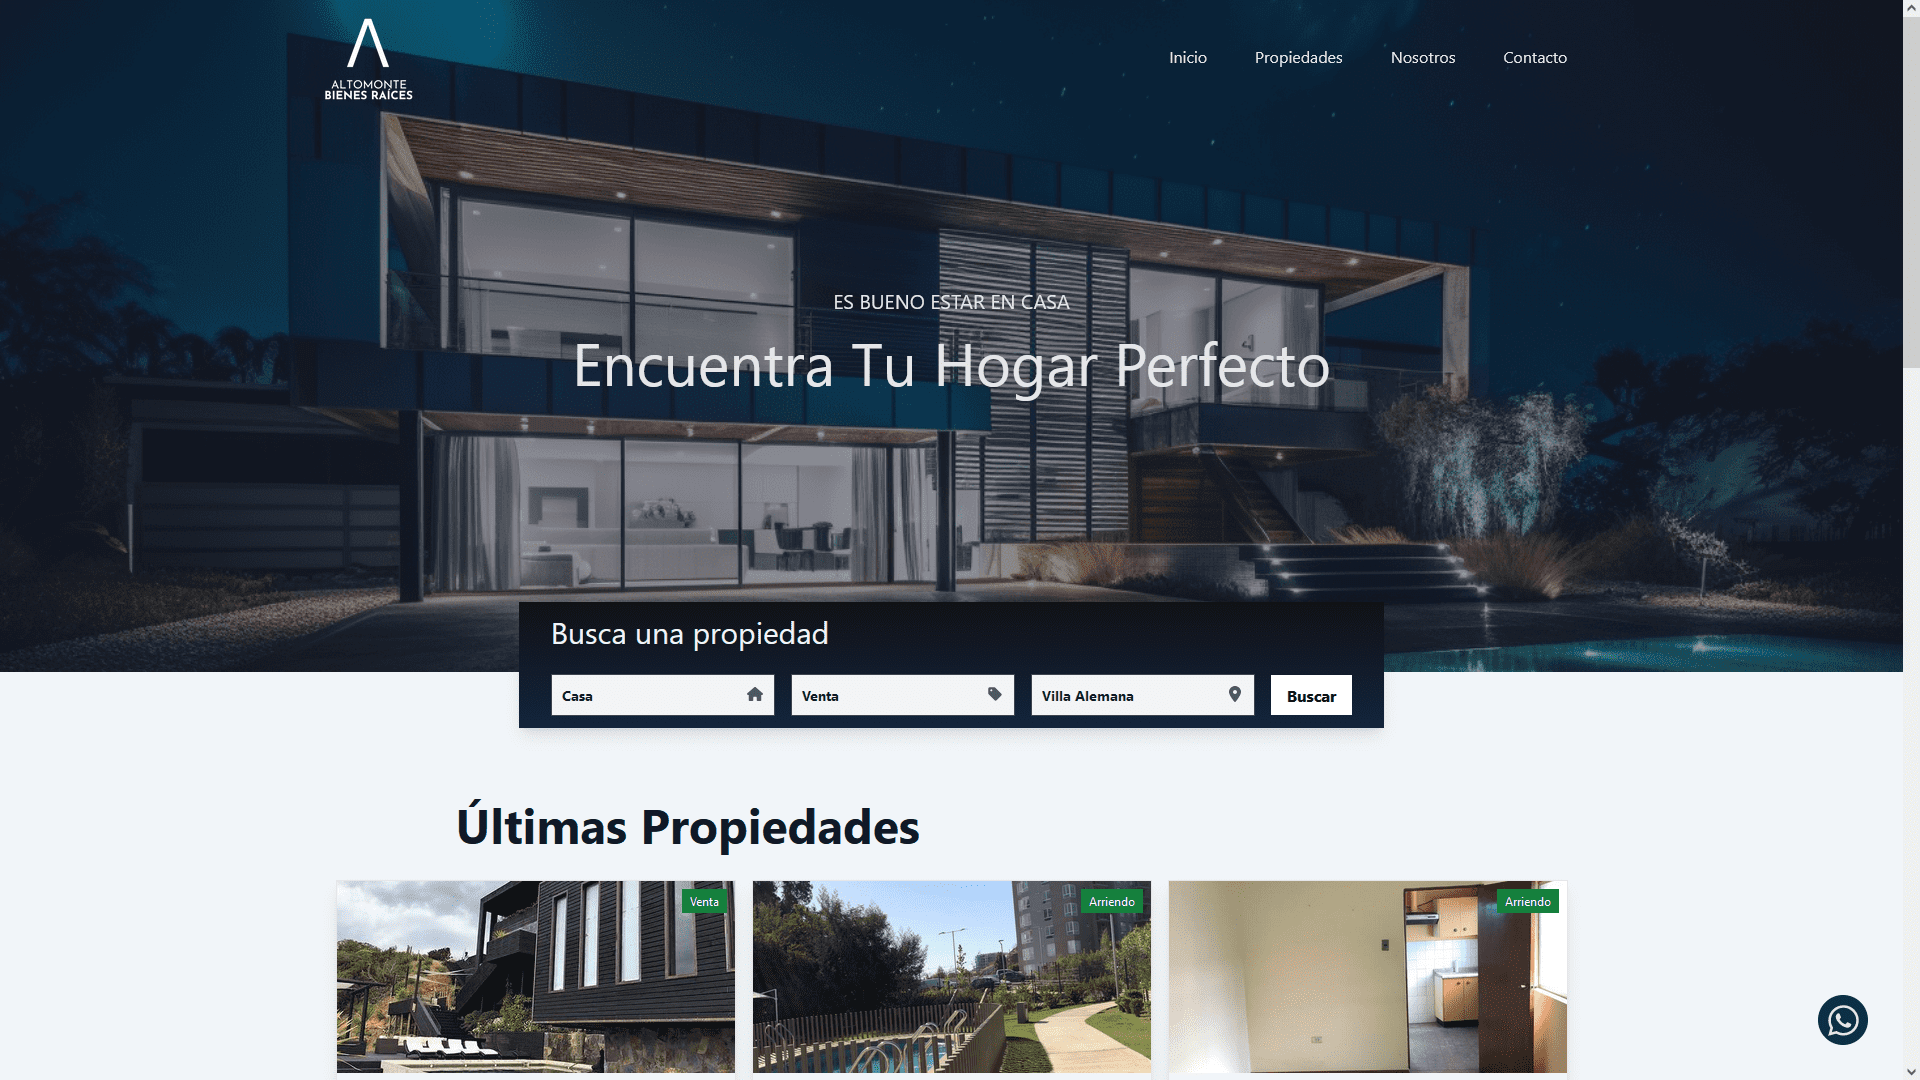
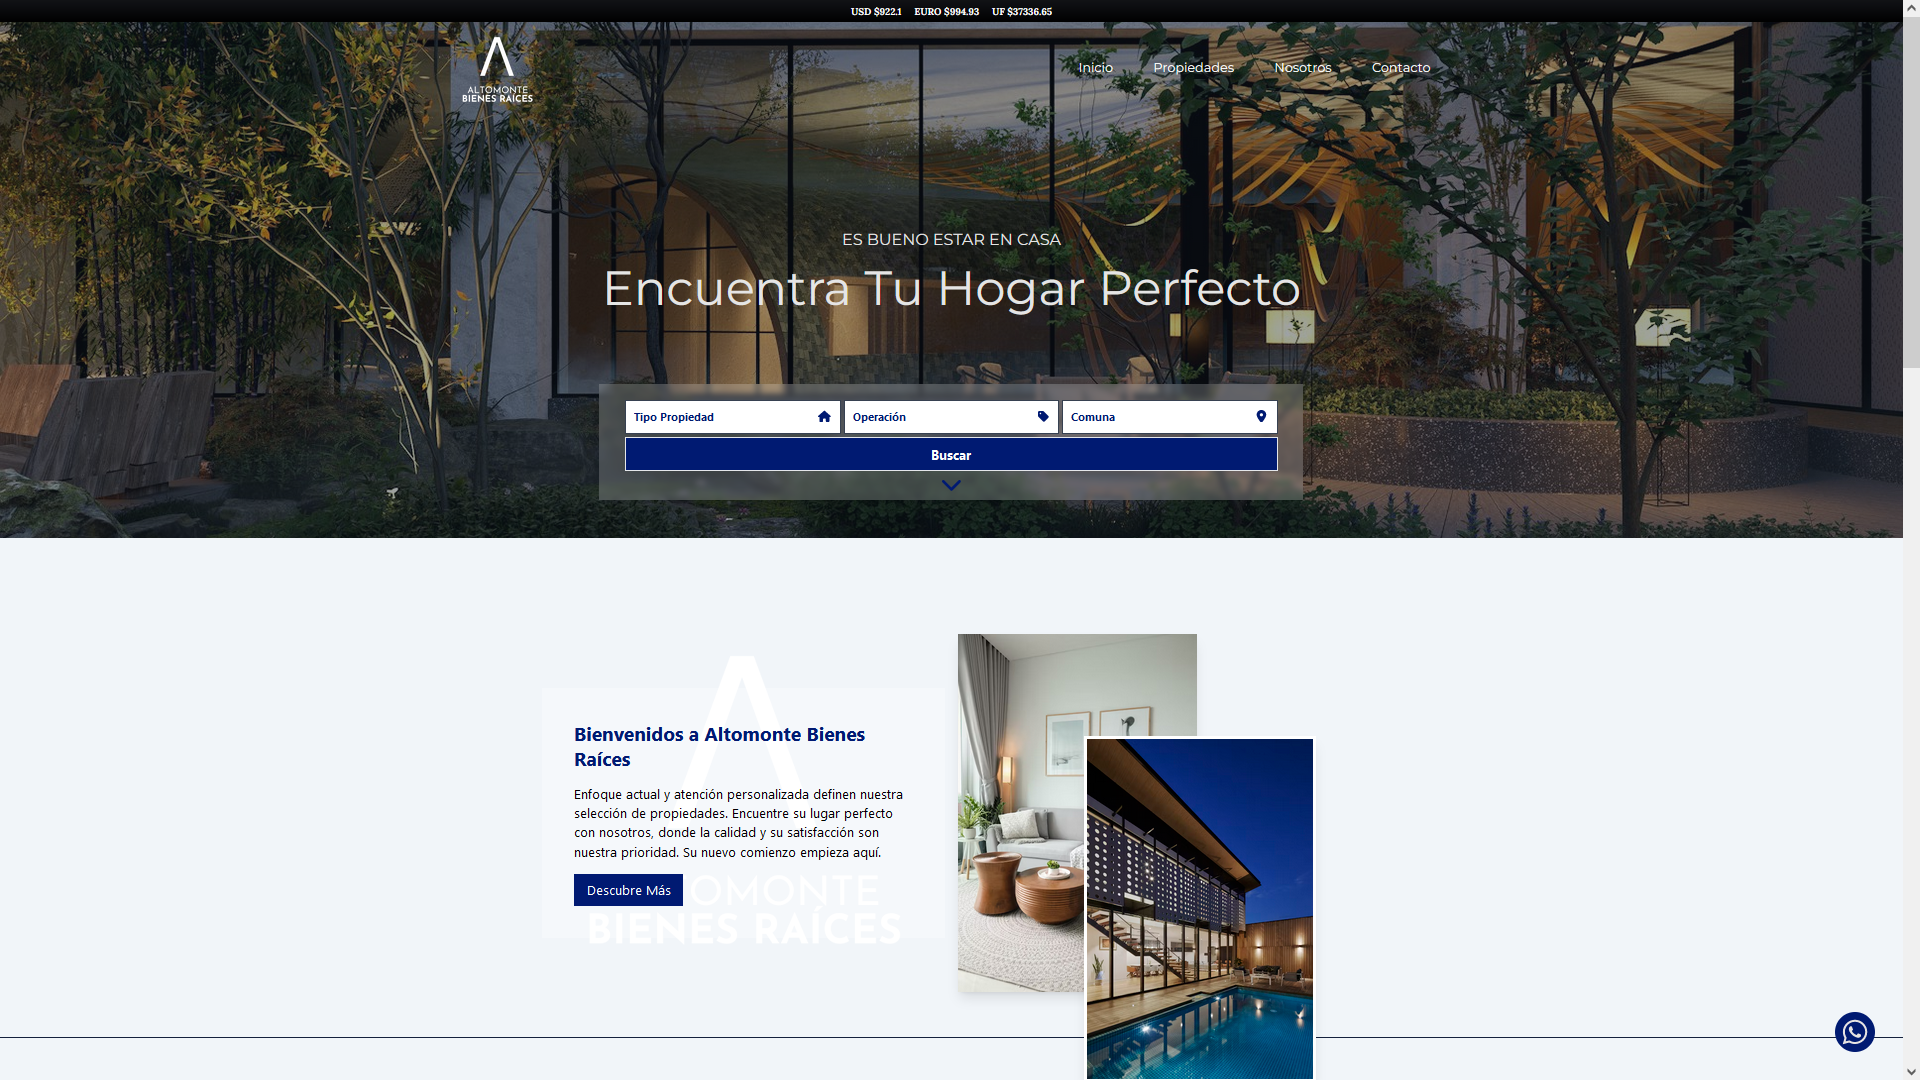
nuevas imagenes para altomonte

diff --git a/src/components/Icons.jsx b/src/components/Icons.jsx
@@ -165,130 +165,5 @@ export const NodeJSIcon = () => (
   </svg>
   )
 
-  export const HamburgerIcon = () => (
-    <svg
-    xmlns="http://www.w3.org/2000/svg"
-    fill="none"
-    viewBox="0 0 24 24"
-    className= {`w-7 `}
-  >
-    <g stroke="#628190" strokeLinecap="round" strokeWidth={1.5}>
-      <path d="M20 7H4" />
-      <path d="M20 12H4" opacity={0.5} />
-      <path d="M20 17H4" />
-    </g>
-  </svg>
-  )
 
- export const ContactSvg = (props) => (
-    <svg
-      xmlns="http://www.w3.org/2000/svg"
-      width={890}
-      height={729.787}
-      data-name="Layer 1"
-      {...props}
-    >
-      <path
-        fill="#2f2e41"
-        d="m219.677 665.91 1.81 38.156v.002a24.345 24.345 0 0 1-23.163 25.47l-.79.037-2.964-62.474Z"
-      />
-      <path
-        fill="#e6e6e6"
-        d="M762.171 601.427c-18.173 35.465-41.224 69.764-70.389 100.808-.648.7-1.302 1.384-1.962 2.08l-69.1-32.714c.422-.702.885-1.49 1.384-2.352 29.683-50.787 208.865-360.592 203.203-430.759.66 5.787 21.898 197.17-63.136 362.937Z"
-      />
-      <path
-        fill="#e6e6e6"
-        d="M705.113 708.546a92.323 92.323 0 0 1-2.957 1.608l-51.838-24.54c.725-.515 1.57-1.123 2.54-1.806 15.88-11.403 63.105-45.614 109.313-82.38 49.658-39.512 98.152-81.965 105.354-102.23-1.463 4.648-46.914 145.898-162.412 209.348Z"
-      />
-      <circle cx={86.23} cy={648.051} r={80} fill="#a4d8d8" />
-      <path
-        fill="#fff"
-        d="M118.275 614.48h-64.09a10.694 10.694 0 0 0-10.682 10.681v45.78a10.694 10.694 0 0 0 10.681 10.681h64.091a10.694 10.694 0 0 0 10.682-10.682v-45.779a10.694 10.694 0 0 0-10.682-10.682Zm0 6.103a4.559 4.559 0 0 1 1.134.148l-33.172 26.461-32.978-26.515a4.58 4.58 0 0 1 .925-.094Zm0 54.935h-64.09a4.583 4.583 0 0 1-4.579-4.578v-45.368l34.711 27.91a3.052 3.052 0 0 0 3.816.006l34.72-27.696v45.148a4.583 4.583 0 0 1-4.578 4.578Z"
-      />
-      <path
-        fill="#ffb8b8"
-        d="m394.968 532.551 17.9.148a12.454 12.454 0 0 0 12.399-14.43 12.454 12.454 0 0 0-17.807-9.192l-16.88 8.33-57.737 12.875-24.735-25.289-14.208 23.401 33.378 25.788Z"
-      />
-      <path
-        fill="#2f2e41"
-        d="m391.613 717.49-21.09 4.056c-14.404-45.409-30.012-88.411-30.011-121.67-20.386 22.688-45.667 35.669-75.436 39.745l3.245-50.29 24.334-12.979 37.243-17.189a28.28 28.28 0 0 1 10.365-2.563 28.28 28.28 0 0 1 29.412 23.773Z"
-      />
-      <path
-        fill="#2f2e41"
-        d="m290.627 633.537-8.405 6.389a26.03 26.03 0 0 1-25.663 3.345c-24.075-18.046-41.179-12.722-56.681 14.516-18.594-20.985-23.182-51.294-6.587-82.651l92.064 2.028 18.656-5.678Z"
-      />
-      <path
-        fill="#2f2e41"
-        d="M259.967 727.517a23.507 23.507 0 0 1-27.82-11.721c-8.274-7.288-15.255-17.721-21.31-30.409a235.353 235.353 0 0 1-11.167-28.683c-4.19-12.94 2.816-27.077 15.855-30.948q.582-.173 1.177-.326c17.407-4.469 35.282 5.57 41.232 22.528l17.3 49.308a23.507 23.507 0 0 1-14.398 29.964q-.432.152-.87.287Z"
-      />
-      <path
-        d="M362.891 764.878s20.279 22.712 24.334 35.69"
-        opacity={0.2}
-        style={{
-          isolation: "isolate",
-        }}
-        transform="translate(-155 -85.106)"
-      />
-      <path
-        fill="#ffb8b8"
-        d="m129.244 572.587-6.787 16.564a12.454 12.454 0 0 0 8.791 16.872 12.454 12.454 0 0 0 15.15-13.118l-1.463-18.767 9.496-58.387 32.668-13.57-16.447-21.885-36.343 21.409Z"
-      />
-      <path
-        fill="#a4d8d8"
-        d="M291.438 575.136c-23.306 39.147-69.767 54.306-109.56 23.651 7-23 29.6-86.566 15-89-31 13-31.045-17.523-36.844-32.799l70.57-25.956 38.123 10.545 7.814 2.773a26.42 26.42 0 0 1 17.583 24.537c-16.015 23.135-27.87 47.815-2.686 86.249Z"
-      />
-      <path
-        fill="#a4d8d8"
-        d="m300.36 543.502-27.983-23.118 9.328-53.94L319.828 507Z"
-      />
-      <path
-        fill="#3f3d56"
-        d="M764.705 172.945h-4V63.4a63.4 63.4 0 0 0-63.4-63.4H465.218a63.4 63.4 0 0 0-63.4 63.4v600.974a63.4 63.4 0 0 0 63.4 63.4h232.085a63.4 63.4 0 0 0 63.4-63.4V250.921h4Z"
-        data-name="b82a9922-ead1-40af-af3b-f133b244cde7"
-      />
-      <path
-        fill="#fff"
-        d="M699.862 16.493h-30.295a22.495 22.495 0 0 1-20.828 30.994H515.78a22.495 22.495 0 0 1-20.826-30.991h-28.3a47.348 47.348 0 0 0-47.348 47.348v600.089a47.348 47.348 0 0 0 47.348 47.348h233.2a47.348 47.348 0 0 0 47.348-47.348V63.84a47.348 47.348 0 0 0-47.348-47.348h.009Z"
-        data-name="b2a7827b-2d2c-407d-93be-35e4c67116bc"
-      />
-      <circle
-        cx={583.658}
-        cy={651.746}
-        r={26}
-        fill="#e6e6e6"
-        data-name="e6b07811-3d0f-4972-ba4c-46b0c6566e33"
-      />
-      <path
-        fill="#e6e6e6"
-        d="M478.182 411.298c-2.457 0-4.457 2.283-4.457 5.088s2 5.088 4.457 5.088h210.143c2.457 0 4.457-2.283 4.457-5.088s-2-5.088-4.457-5.088ZM478.182 531.298c-2.457 0-4.457 2.283-4.457 5.088s2 5.088 4.457 5.088h210.143c2.457 0 4.457-2.283 4.457-5.088s-2-5.088-4.457-5.088ZM478.182 441.826c-2.457 0-4.457 2.282-4.457 5.087s2 5.088 4.457 5.088h90.425c2.458 0 4.458-2.282 4.458-5.088s-2-5.087-4.458-5.087ZM478.182 470.924c-2.457 0-4.457 2.283-4.457 5.088s2 5.088 4.457 5.088h210.143c2.457 0 4.457-2.283 4.457-5.088s-2-5.088-4.457-5.088ZM478.182 501.451c-2.457 0-4.457 2.283-4.457 5.088s2 5.088 4.457 5.088h90.425c2.458 0 4.458-2.283 4.458-5.088s-2-5.088-4.458-5.088Z"
-      />
-      <path
-        fill="#a4d8d8"
-        d="M517.853 179.627h130.814a5.457 5.457 0 0 1 5.45 5.45v136.238a5.457 5.457 0 0 1-5.45 5.45H517.853a5.457 5.457 0 0 1-5.45-5.45V185.078a5.457 5.457 0 0 1 5.45-5.45Z"
-      />
-      <path
-        fill="#fff"
-        d="M620.793 298.67a3.7 3.7 0 1 0 .004-7.4h-75.07a3.7 3.7 0 1 0-.004 7.4h75.07ZM620.793 276.868a3.7 3.7 0 0 0 0-7.4h-75.066a3.7 3.7 0 1 0-.004 7.4h75.07ZM583.26 207.722a23.293 23.293 0 1 1-23.293 23.292 23.319 23.319 0 0 1 23.293-23.292Z"
-      />
-      <path
-        fill="#2f2e41"
-        d="M286.064 443.97h-69.15a5.371 5.371 0 0 1-5.365-5.365V408.8a39.94 39.94 0 1 1 79.88 0v29.806a5.371 5.371 0 0 1-5.365 5.365Z"
-      />
-      <circle
-        cx={414.124}
-        cy={497.999}
-        r={29.283}
-        fill="#ffb6b6"
-        transform="rotate(-61.337 264.866 586.134)"
-      />
-      <path
-        fill="#2f2e41"
-        d="M300.878 411.78h-42.283l-.434-6.07-2.168 6.07h-6.51l-.86-12.032-4.297 12.032h-12.598v-.596a31.63 31.63 0 0 1 31.594-31.595h5.962a31.63 31.63 0 0 1 31.594 31.595Z"
-      />
-      <path
-        fill="#2f2e41"
-        d="M258.248 449.534a5.481 5.481 0 0 1-.949-.084l-30.962-5.463v-51.17h34.083l-.844.983c-11.74 13.693-2.895 35.894 3.422 47.91a5.286 5.286 0 0 1-.42 5.612 5.344 5.344 0 0 1-4.33 2.212ZM361.333 702.175l38.2-.001h.001a24.345 24.345 0 0 1 24.344 24.343v.791l-62.544.003Z"
-      />
-      <path fill="#cacaca" d="M889 729.787H1a1 1 0 0 1 0-2h888a1 1 0 0 1 0 2Z" />
-    </svg>
-  )
+ 

diff --git a/src/data/projects.js b/src/data/projects.js
@@ -8,9 +8,9 @@ export const projects = [
         href: 'https://panel-cliente.onrender.com/',
         href2: 'https://github.com/Sie7he/admin_panel',
         icon: ['NodeJSIcon', 'ReactJsIcon', 'PostgreSQLIcon'],
-        buttontxt: 'Ver Sitio',
-        buttontxt2 : 'Ver Repositorio',
-        description: 'CRUD para panel de administración usando tecnologías como v0.dev para el diseño y render.com para hosting.',
+        buttontxt: 'Ver',
+        github : true,
+        description: "Panel de administración que generalmente uso en mis proyectos. Esta aplicación está usando un servidor gratis, por lo que tardará en iniciar.",
     },
     {
         id: 2,
@@ -24,26 +24,31 @@ export const projects = [
         img: '/galeria.png',
         title: 'Galería de Fotos',
         href: 'https://unagaleriadefotos.netlify.app/',
+        href2: 'https://github.com/Sie7he/gallery',
         icon: ['ReactJsIcon'],
-        buttontxt: 'Visitar el sitio',
-        description: 'Galería de imágenes integrada con la API de Unsplash, mostrando fotografías de alta calidad.',
+        buttontxt: 'Ver',
+        github : true,
+        description: "Una galería de imágenes dinámica integrada con la API de Unsplash, que presenta un diseño atractivo y moderno con suaves transiciones entre páginas.",
     },
     {
         id: 4,
         img: '/tienda.png',
         title: 'Random Store',
         href: 'https://ramdomstore.netlify.app/',
+        href2 : 'https://github.com/Sie7he/tienda',
         icon: ['ReactJsIcon'],
-        buttontxt: 'Visitar el sitio',
-        description: 'Plataforma de comercio electrónico construida con React y estilizada con Tailwind, ofreciendo una experiencia de compra dinámica. ',
+        buttontxt: 'Ver',
+        github : true,
+        description: 'Simulación de un carrito de compra, aplicando filtros de categoría y precio (Proyecto de Midudev)',
     },
     {
         id: 5,
         img: '/metas.png',
         title: 'Metas app',
-        href: 'https://github.com/Sie7he/academiaX',
+        href2: 'https://github.com/Sie7he/academiaX',
         icon: ['NodeJSIcon', 'ReactJsIcon', 'PostgreSQLIcon'],
-        buttontxt: 'Ver Repositorio',
+        buttontxt: '',
+        github: true,
         description: 'Aplicación interactiva CRUD para el registro y seguimiento de metas diarias, semanales y mensuales (Proyecto de AcademiaX).',
     },
 

diff --git a/src/components/shareds/Cards.jsx b/src/components/shareds/Cards.jsx
@@ -1,6 +1,6 @@
 import React from 'react'
 import estilos from './card.module.css';
-import { NodeJSIcon, JavaScriptIcon, ReactJsIcon, MySQLIcon, PostgreSQLIcon, JQueryIcon } from '../Icons';
+import { NodeJSIcon, JavaScriptIcon, ReactJsIcon, MySQLIcon, PostgreSQLIcon, JQueryIcon, GithubIcon } from '../Icons';
 
 
 export const Cards = ( props ) => {
@@ -19,7 +19,9 @@ export const Cards = ( props ) => {
   return (
 
     <div className={estilos.card}>
-      <img src={props.img} />
+     <div className={estilos.cardContainer}>
+     <img src={props.img} />
+     </div>
       <div>
         <h2>{props.title}</h2>
         <div className='flex justify-center md:justify-start'>
@@ -34,8 +36,12 @@ export const Cards = ( props ) => {
           {props.description}
         </p>
         <div className='flex gap-4 justify-center lg:justify-normal'>
-        <a target='_blank' href={props.href} rel='noreferrer'>{props.buttontxt}</a>
-        {props.href2 && <a target='_blank' href={props.href2} rel='noreferrer'>{props.buttontxt2}</a>}
+          {props.href &&
+           <a target='_blank' href={props.href} rel='noreferrer'>{props.buttontxt}</a> 
+          }
+       
+        {props.github && 
+        <a target='_blank' href={props.href2} rel='noreferrer' className='flex items-center w-14'><GithubIcon/> </a>}
         </div>
       </div>
     </div>

diff --git a/src/components/Views/Work.jsx b/src/components/Views/Work.jsx
@@ -1,4 +1,4 @@
-import { JQueryIcon, MySQLIcon, NodeJSIcon, ReactJsIcon } from "../Icons";
+import {  MySQLIcon, NodeJSIcon, ReactJsIcon } from "../Icons";
 
 export const Work = () => {
   return (
@@ -26,23 +26,23 @@ export const Work = () => {
             </a>
             <div className="grid grid-cols-2 gap-4">
               <a
-                href="https://altomontebienesraices.com/propiedades"
+                href="https://altomontebienesraices.com/propiedad/100"
                 target="_blank"
                 rel="noreferrer"
               >
                 <img
-                  src="/Altomonte_propiedades.png"
+                  src="/altomonte_note.png"
                   alt="Imagen secundaria 1"
                   className="w-full h-auto object-cover rounded-lg"
                 />
               </a>
               <a
-                href="https://altomontebienesraices.com/propiedad/101"
+                href="https://altomontebienesraices.com/"
                 target="_blank"
                 rel="noreferrer"
               >
                 <img
-                  src="/Altomonte_propiedad.png"
+                  src="/altomonte_phones.png"
                   alt="Imagen secundaria 2"
                   className="w-full h-auto object-cover rounded-lg"
                 />

diff --git a/src/components/Views/Home.jsx b/src/components/Views/Home.jsx
@@ -4,7 +4,6 @@ import { Contact } from "./Contact";
 import { Hero } from "./Hero";
 import { Work } from "./Work";
 import { useEffect, useState } from "react";
-import About from "./About";
 import Certificates from "./Certificates";
 
 export const Home = () => {
@@ -31,12 +30,19 @@ export const Home = () => {
     <Layout>
      <div
         className="light-circle"
+
         style={{
-          background: `radial-gradient(700px at ${cursorPos.x}px ${cursorPos.y}px, rgba(164, 216, 216, 0.28), transparent 70%)`
+          backgroundColor:'transparent',
+          top: `${cursorPos.y}px`,
+          left: `${cursorPos.x}px`,
+          width: '35px',
+          height: '35px',
+          borderRadius: '50%',
+          border: '3px solid #14213D',
+          opacity: '.35'
         }}
       />
       <Hero />
-      {/* <About /> */}
       <Work />
       <Projects />
       <Certificates />

diff --git a/src/App.css b/src/App.css
@@ -17,3 +17,30 @@ section {
     @apply pointer-events-none fixed inset-0 z-30 transition duration-300 lg:absolute;
 
   }
+
+  .skills-slide {
+    @apply animate-slide w-full
+
+  }
+  .skills-slide-inverse {
+    @apply animate-slideInverse w-full
+
+  }
+
+  @keyframes slide {
+    from {
+      transform: translateX(-100%); /* Comienza fuera de la pantalla por la izquierda */
+    }
+    to {
+      transform: translateX(110%); /* Se mueve hacia la derecha hasta salir completamente de la pantalla */
+    }
+}
+
+@keyframes slideInverse {
+  from {
+    transform: translateX(100%); /* Comienza fuera de la pantalla por la derecha */
+  }
+  to {
+    transform: translateX(-100%); /* Se mueve hacia la izquierda hasta salir completamente de la pantalla */
+  }
+}

diff --git a/src/components/shareds/card.module.css b/src/components/shareds/card.module.css
@@ -7,19 +7,23 @@
     border-radius: 24px;
   }
   
-  .card img {
-    width: 14rem;
+  .cardContainer {
+    max-width: 14rem;
     max-height: 10rem;
-    object-fit: fill;
+    overflow: hidden;
     margin-left: -60px;
     margin-right: 30px;
     border-radius: inherit;
     box-shadow: 0 60px 40px rgb(0 0 0 / 8%);
+
+  }
+  .card img {
+    object-fit: fill;
     transition: .7s;
   }
   
 .card img:hover {
-  transform: scale(1.05);
+  transform: scale(1.15);
 }
 
   .card h2 {
@@ -47,7 +51,7 @@
     font-family: inherit;
     padding: 16px ;
     font-size: 16px;
-    border-radius: 40px;
+    border-radius: 50%;
   }
   
   @media screen and ( max-width : 768px) {

diff --git a/tailwind.config.js b/tailwind.config.js
@@ -35,6 +35,10 @@ export default {
       },
       fontFamily: {
         'roboto' : 'Roboto, sans-serif'
+      },
+      animation: {
+        slide: 'slide 14s infinite linear',
+        slideInverse: 'slideInverse 14s infinite linear'
       }
       
     },

diff --git a/src/components/shareds/navbar/navbar.css b/src/components/shareds/navbar/navbar.css
@@ -14,7 +14,6 @@ nav {
 }
 
 nav.visible {
-  top: 0;
   translate: 0;
 }
 
